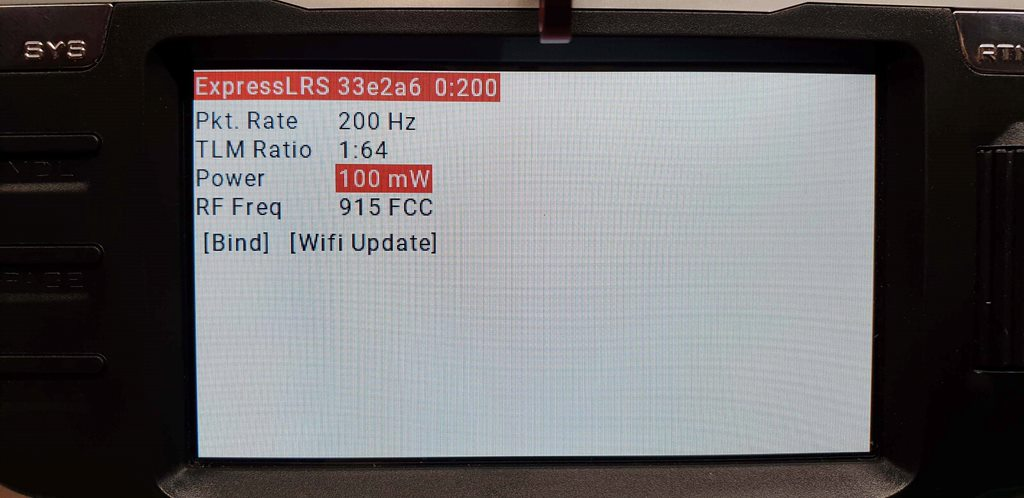
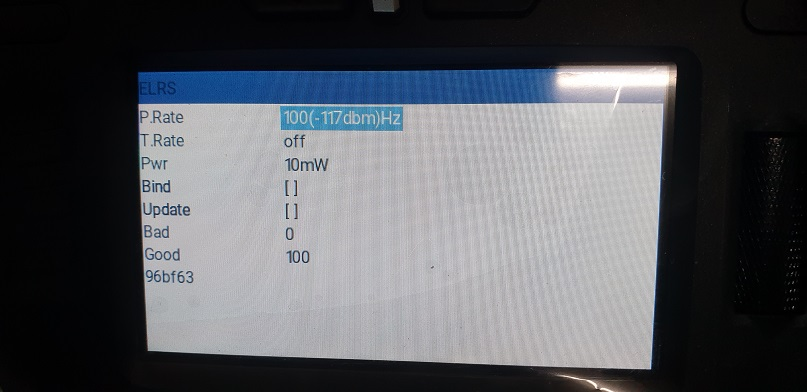
new lua guide

diff --git a/docs/quick-start/tx-prep.md b/docs/quick-start/tx-prep.md
@@ -39,7 +39,13 @@ The ADC filter is enabled by default in OpenTX and is known to cause issues with
 
 ## Lua Script
 
-For faster access to the Lua script, save the `ELRS.lua` File from this link: [ExLRS Lua Script](https://raw.githubusercontent.com/ExpressLRS/ExpressLRS/1.0.x-maintenance/src/lua/ELRS.lua) onto the radio's SD Card in the `Scripts/Tools` folder and Long Press the "SYS" button (for T16 or similar Radios) or the "Menu" button (for Taranis X9D or similar Radios) to access the Tools Menu where you can find ELRS script ready to run with only one click.
+For faster access to the Lua script, use the Crossfire Configuration Tools in `Menu -> Tools`. For Higher bad:good packets refresh rate and also less RC command interuption, save the `ELRS.lua` File from this link: [ExLRS Lua Script](https://github.com/ExpressLRS/ExpressLRS/tree/master/src/lua) onto the radio's SD Card in the `Scripts/Tools` folder and Long Press the "SYS" button (for T16 or similar Radios) or the "Menu" button (for Taranis X9D or similar Radios) to access the Tools Menu where you can find ELRS script ready to run with only one click.
+
+if your handset has the black and white display and your handset is NOT X9D or X9D+, use the telemetry script in the black_and_white_display_128x64 folder.
+
+if your handset is the X9D or X9D+, use the telemetry script in the x9d_212x64 folder.
+
+if your handset has the colored screen display, use the telemetry script in the color_display_480x272 folder.
 
 Another way to get the ELRS Lua Script is via the ExpressLRS Configurator.
 
@@ -52,22 +58,30 @@ Here's how it looks in the Tools Menu:
 
 **Note: For devices not yet flashed with ExpressLRS, the section below will not work.**
 
-The Lua script has an important feature that's highly valuable with troubleshooting. On the first line, after the 6-character version hash, it shows an indicator 0:nnn which tells you how many bad UART packets and how many good UART packets per second it's getting from the radio. It can be used to confirm the communication between the Radio and the TX module is working properly. 
+The Lua script has an important feature that's highly valuable with troubleshooting. It tells you how many bad UART packets and how many good UART packets per second it's getting from the radio. It can be used to confirm the communication between the Radio and the TX module is working properly. 
 
-e.g. if you have set the Packet Rate to 200Hz, 0:200 means 0 bad packets and 200 good packets. 
+e.g. if you have set the Packet Rate to 200Hz, 0/200 means 0 bad packets and 200 good packets (per second).
+
+![Lua3](../assets/images/lua3.jpg)
+with crossfire Tools you can see them as the Bad and Good parameters as in the picture above.
+
+
+![Lua4](../assets/images/lua4.jpg)
+with the ELRS.lua you will see them also at the top of the page where the value will be updated in a consistent and faster rate. (picture above)
+
+bonus tips : ELRS.lua also works as TELEMETRY Script.
 
 The second number should match the selected packet rate (200 for 200Hz, 500 for 500Hz, etc..)
 
 If it doesn't and is stuck at 250 that means `CRSFshot` isn't working. Go back to the top of this page and verify you've done all the steps above correctly.
 
-![Lua3](../assets/images/lua3.jpg)
 
 ### Troubleshooting Lua Script
 
-"Connecting" showing on the Lua Script would mean the Protocol set for the External Module is incorrect or that the module is not properly connected to the pins of the jr bay of the radio. The latter could mean that the module's PCB has gotten loose, common with the first batches of the ES24TX modules from Happymodel.
+when no parameter is shown for a long time in the Lua Script, that would means the Protocol set for the External Module is incorrect or that the module is not properly connected to the pins of the jr bay of the radio. The latter could mean that the module's PCB has gotten loose, common with the first batches of the ES24TX modules from Happymodel.
 
-If the number up top the lua script is showing 0:142, etc., have a look at your model settings and make sure the internal RF module is set to off.
+If the value of bad:good packet from the lua script is showing 0/142, etc., have a look at your model settings and make sure the internal RF module is set to off.
 
-The "33e2a6" from the photo above is the Commit Hash of the firmware version that the module has. You can reference this hash from [Releases](https://github.com/ExpressLRS/ExpressLRS/releases). If you can't find the commit hash from the Releases page, this could mean you are using firmware from the manufacturer's own fork of the ExpressLRS code.
+The "96bf63" from the photo above is the Commit Hash of the firmware version that the module has. You can reference this hash from [Releases](https://github.com/ExpressLRS/ExpressLRS/releases).
 
 **Now that your radio is set, you can now proceed with flashing ExpressLRS!**
